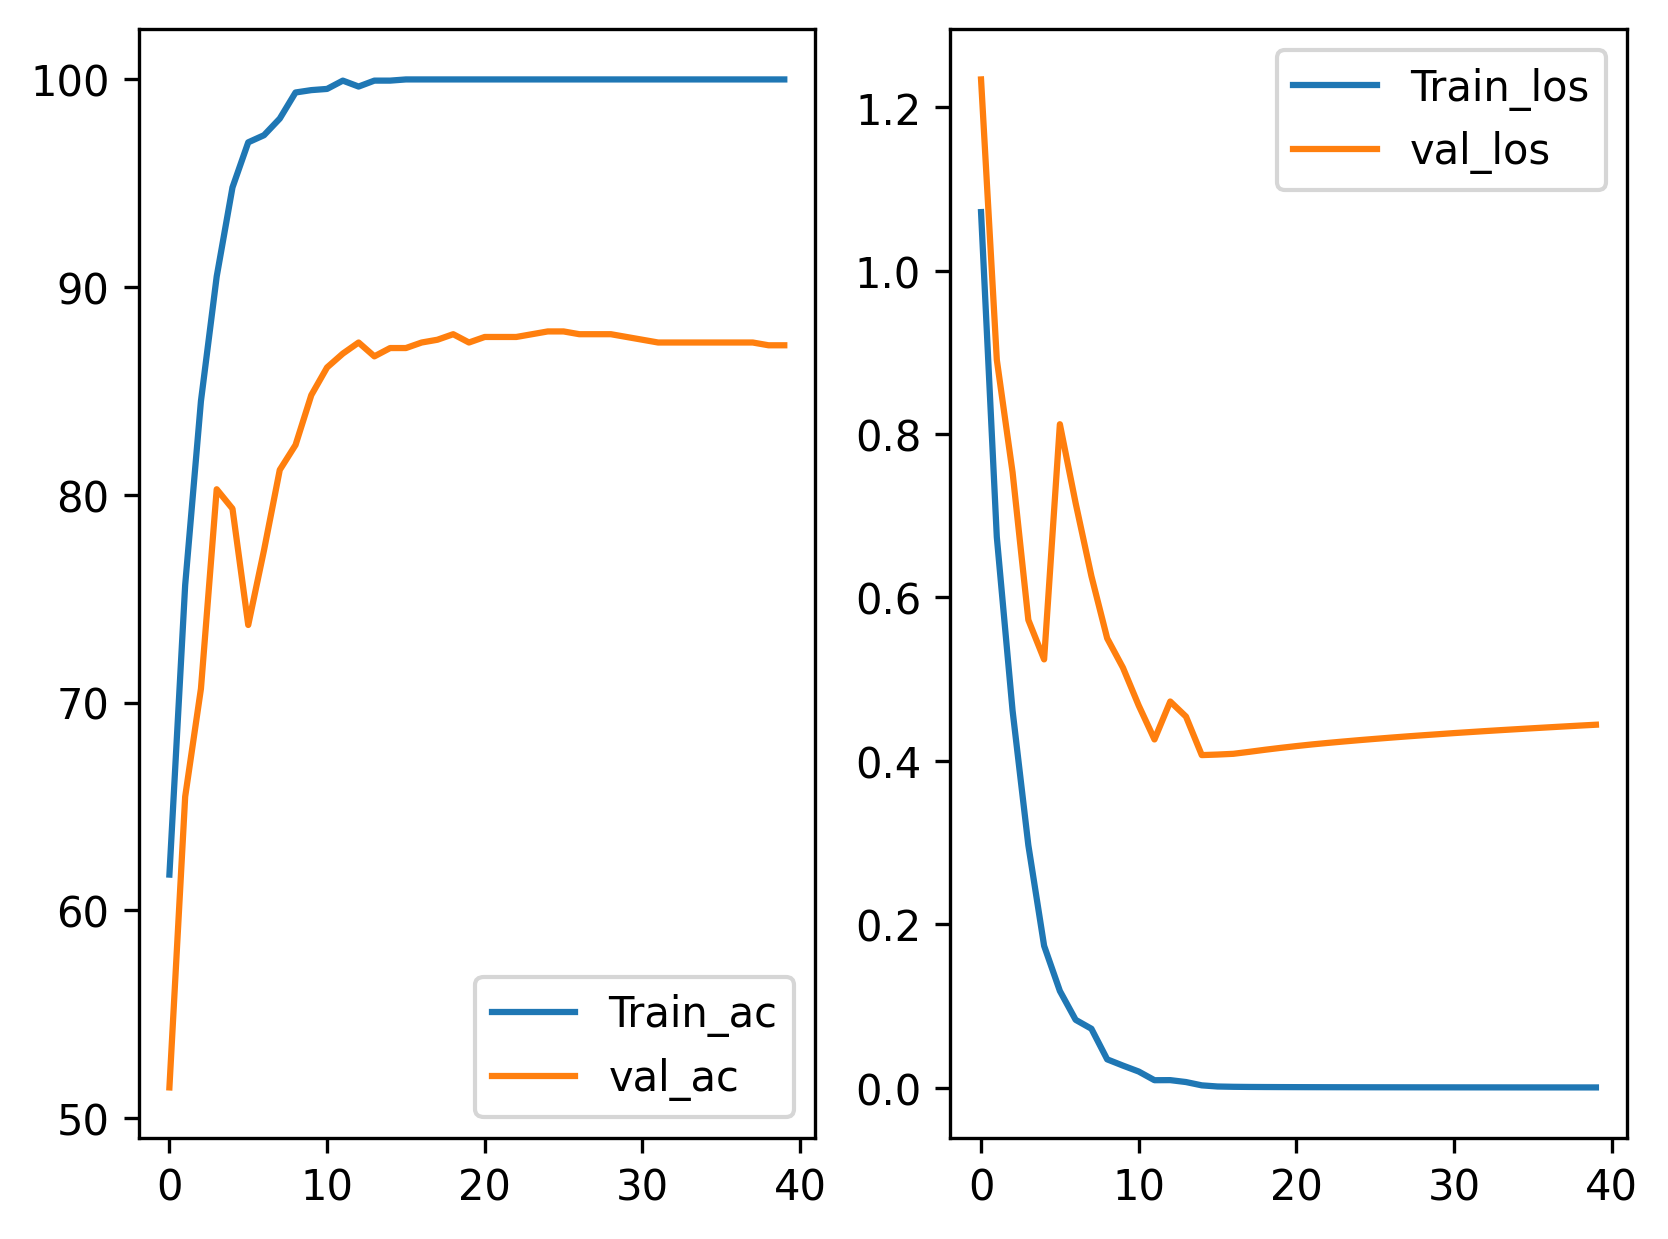
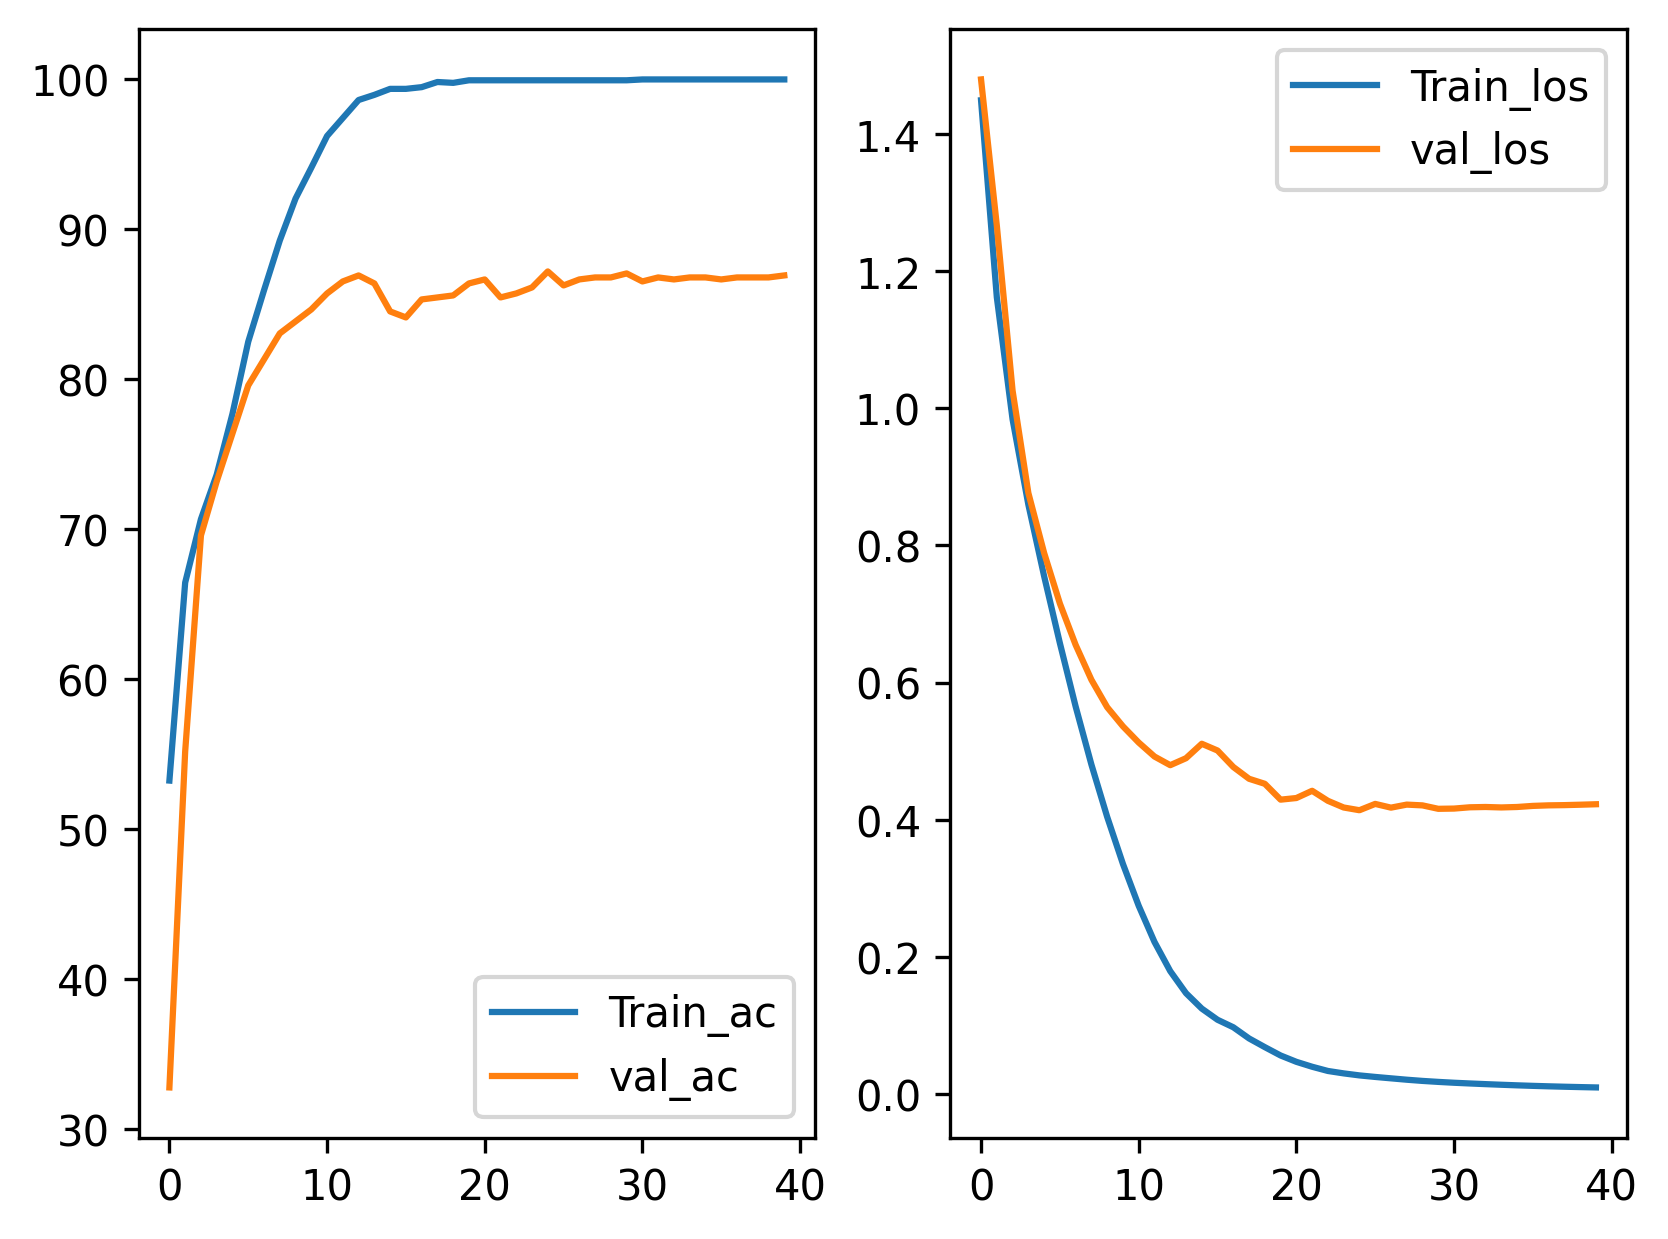
Naming

diff --git a/Config/config_model1.py b/Config/config_model1.py
@@ -24,7 +24,7 @@ class Config:
     def _set_hyperparameters(self):
         """Define all hyperparameters."""
         self._batch_size = 128
-        self._learning_rate = 0.001
+        self._learning_rate = 0.0001
         self._epochs = 40
         self._valdata_ratio = 0.3
         self._width_transform=32
